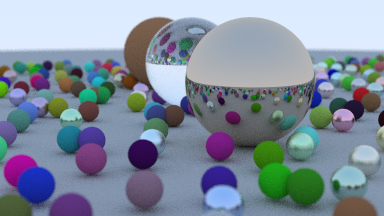
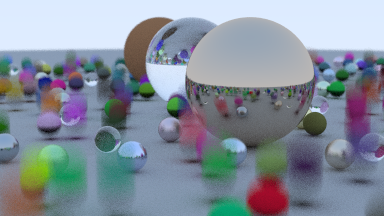
Motion blur

diff --git a/code/Sphere.cs b/code/Sphere.cs
@@ -5,13 +5,7 @@ namespace RayTracingInOneWeekend {
 
     public class Sphere : Hittable
     {
-        public Sphere(in Vector3 center, float radius, Material material)
-        {
-            this.center = center;
-            this.radius = radius;
-            this.material = material;
-        }
-        public override bool hit(in Ray ray, float tMin, float tMax, ref HitRecord record)
+        public static bool RayHitSphere(in Ray ray, float tMin, float tMax, ref HitRecord record, in Vector3 center, float radius, in Material material)
         {
             Vector3 oc = ray.origin - center;
             float a = Vector3.Dot(ray.direction, ray.direction);
@@ -41,9 +35,55 @@ namespace RayTracingInOneWeekend {
             return false;
         }
 
+        public Sphere(in Vector3 center, float radius, Material material)
+        {
+            this.center = center;
+            this.radius = radius;
+            this.material = material;
+        }
+
+        public override bool hit(in Ray ray, float tMin, float tMax, ref HitRecord record)
+        {
+            return RayHitSphere(ray, tMin, tMax, ref record, center, radius, material);
+        }
+
         public Vector3 center;
         public float radius;
         readonly protected Material material;
+    }
+
+    public class MovingSphere : Hittable
+    {
+        public MovingSphere(in Vector3 center0,
+                            in Vector3 center1,
+                            float time0,
+                            float time1,
+                            float radius,
+                            Material material)
+        {
+            this.center0 = center0;
+            this.center1 = center1;
+            this.time0 = time0;
+            this.time1 = time1;
+            this.radius = radius;
+            this.material = material;
+        }
+        public override bool hit(in Ray ray, float tMin, float tMax, ref HitRecord record)
+        {
+            Vector3 center = centerAt(ray.time);
+            return Sphere.RayHitSphere(ray, tMin, tMax, ref record, center, radius, material);
+        }
+
+        public Vector3 centerAt(float time)
+        {
+            float percent = (time - time0) / (time1 - time0);
+            return Vector3.Lerp(center0, center1, percent);
+        }
+
+        readonly public Vector3 center0, center1;
+        readonly public float time0, time1;
+        readonly public float radius;
+        readonly public Material material;
     }
 
 }

diff --git a/code/Main.cs b/code/Main.cs
@@ -18,6 +18,7 @@ namespace RayTracingInOneWeekend
             if (world.hit(ray, 0.001f, float.PositiveInfinity, ref hitRecord))
             {
                 Ray scattered = new Ray();
+                scattered.time = 0.0f;
                 Vector3 attenuation = new Vector3();
                 if (hitRecord.material.scatter(ray, hitRecord, ref attenuation, ref scattered))
                 {
@@ -55,7 +56,12 @@ namespace RayTracingInOneWeekend
                         continue;
 
                     if (whichMat < 0.8f)
+                    {
                         mat = new Lambertian(Utility.RandomColor() * Utility.RandomColor());
+                        Vector3 center1 = center + new Vector3(0.0f, Utility.RandomF(0.0f, 0.5f), 0.0f);
+                        world.add(new MovingSphere(center, center1, 0.0f, 1.0f, 0.2f, mat));
+                        continue;
+                    }
                     else if (whichMat < 0.95f)
                         mat = new Metal(Utility.RandomColor(0.5f, 1.0f), Utility.RandomF(0.0f, 0.5f));
                     else
@@ -111,7 +117,9 @@ namespace RayTracingInOneWeekend
                 20.0f,
                 aspectRatio,
                 aperture,
-                focusDistance);
+                focusDistance,
+                0.0f,
+                1.0f);
 
             DateTime start = DateTime.Now;
             Console.WriteLine("Start at: {0}", start.ToString("F"));

diff --git a/code/Camera.cs b/code/Camera.cs
@@ -12,7 +12,9 @@ namespace RayTracingInOneWeekend {
             float fov,
             float aspectRatio,
             float aperture,
-            float focusDistance)
+            float focusDistance,
+            float time0 = 0.0f,
+            float time1 = 0.0f)
         {
             float theta = Utility.DegreeToRadians(fov);
             float h = Utility.TanF(0.5f * theta);
@@ -28,6 +30,8 @@ namespace RayTracingInOneWeekend {
             vertical = focusDistance * viewportHeight * v;
             lowerLeft = origin - 0.5f * horizontal - 0.5f * vertical - focusDistance * w;
             lensRadius = 0.5f * aperture;
+            this.time0 = time0;
+            this.time1 = time1;
         }
 
         public Ray getRay(float s, float t)
@@ -37,6 +41,7 @@ namespace RayTracingInOneWeekend {
             Ray ray = new Ray();
             ray.origin = origin + offset;
             ray.direction = lowerLeft + s * horizontal + t * vertical - ray.origin;
+            ray.time = Utility.RandomF(time0, time1);
             return ray;
         }
 
@@ -48,6 +53,7 @@ namespace RayTracingInOneWeekend {
         private readonly Vector3 v;
         private readonly Vector3 w;
         private readonly float lensRadius;
+        private float time0, time1;
     }
 
 }

diff --git a/code/Ray.cs b/code/Ray.cs
@@ -4,10 +4,11 @@ namespace RayTracingInOneWeekend {
 
     public struct Ray
     {
-        public Ray(in Vector3 origin, in Vector3 direction)
+        public Ray(in Vector3 origin, in Vector3 direction, float time = 0.0f)
         {
             this.origin = origin;
             this.direction = direction;
+            this.time = time;
         }
 
         public Vector3 at(float t)
@@ -17,6 +18,7 @@ namespace RayTracingInOneWeekend {
 
         public Vector3 origin;
         public Vector3 direction;
+        public float time;
     }
 
 }

diff --git a/code/Material.cs b/code/Material.cs
@@ -39,6 +39,7 @@ public class Metal : Material
         Vector3 reflected = Vector3.Reflect(Vector3.Normalize(ray.direction), record.normal);
         scattered.origin = record.point;
         scattered.direction = reflected + fuzziness * Utility.RandomUnitVector();
+        scattered.time = ray.time;
         attenuation = albedo;
         return Vector3.Dot(scattered.direction, record.normal) > 0.0f;
     }
